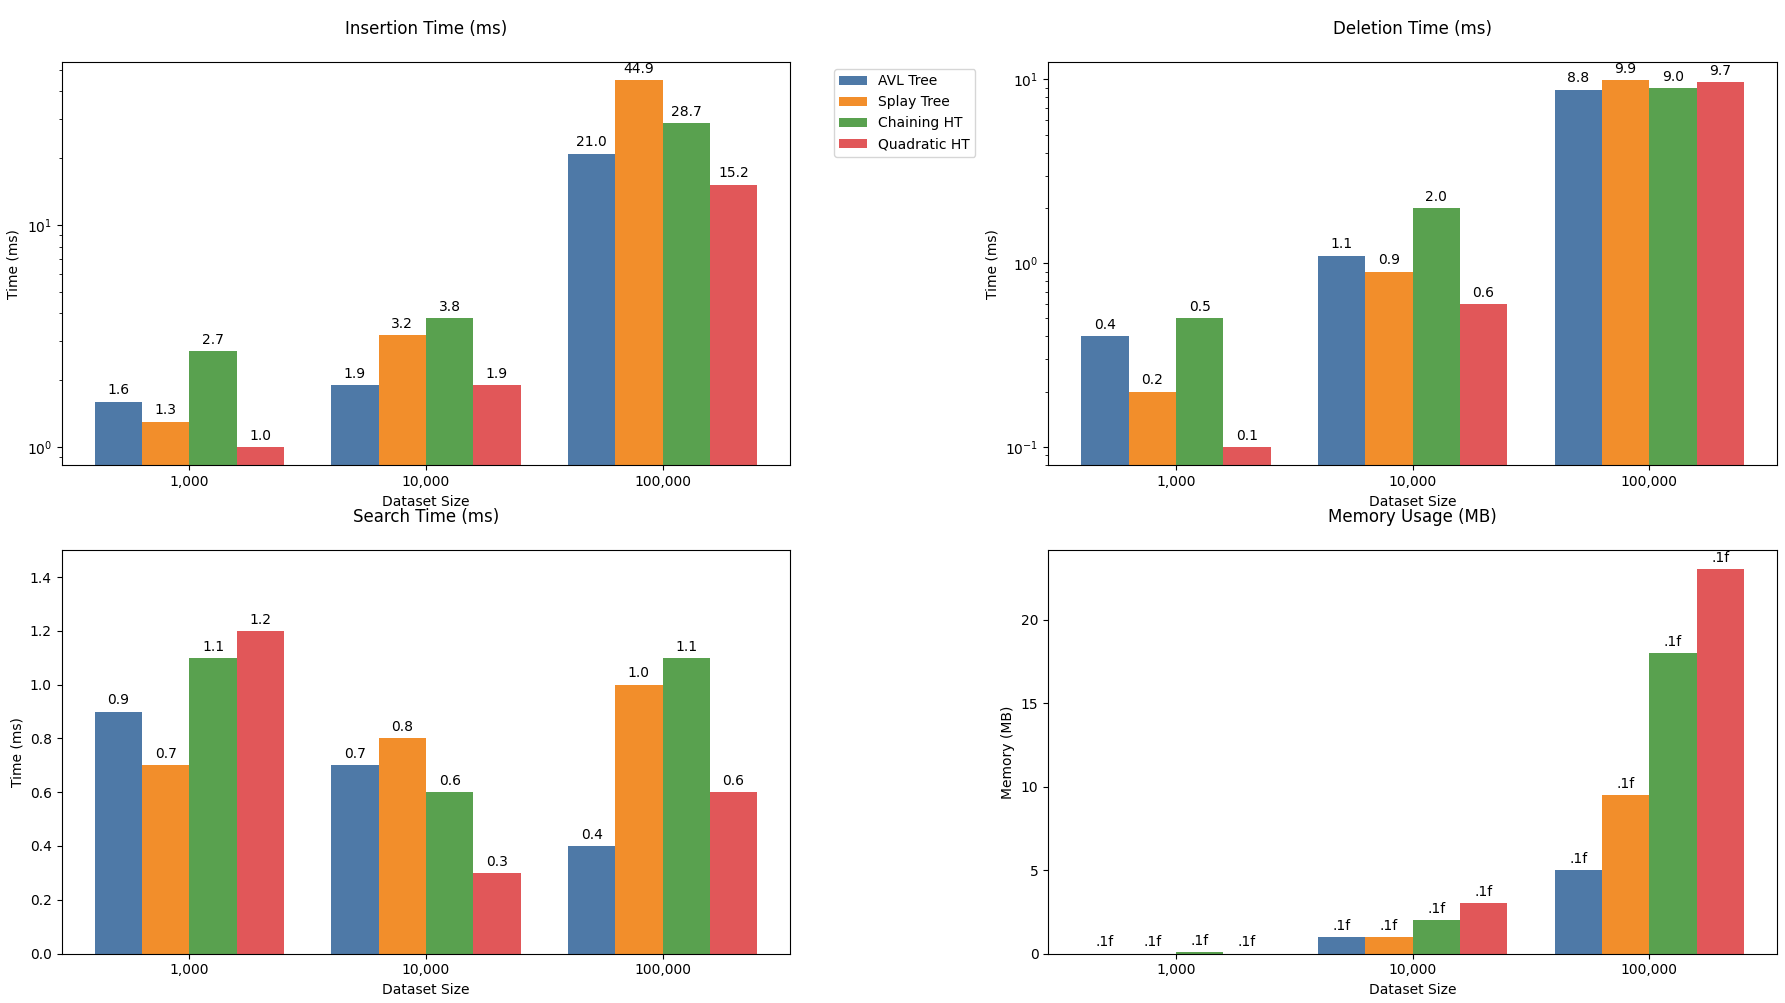
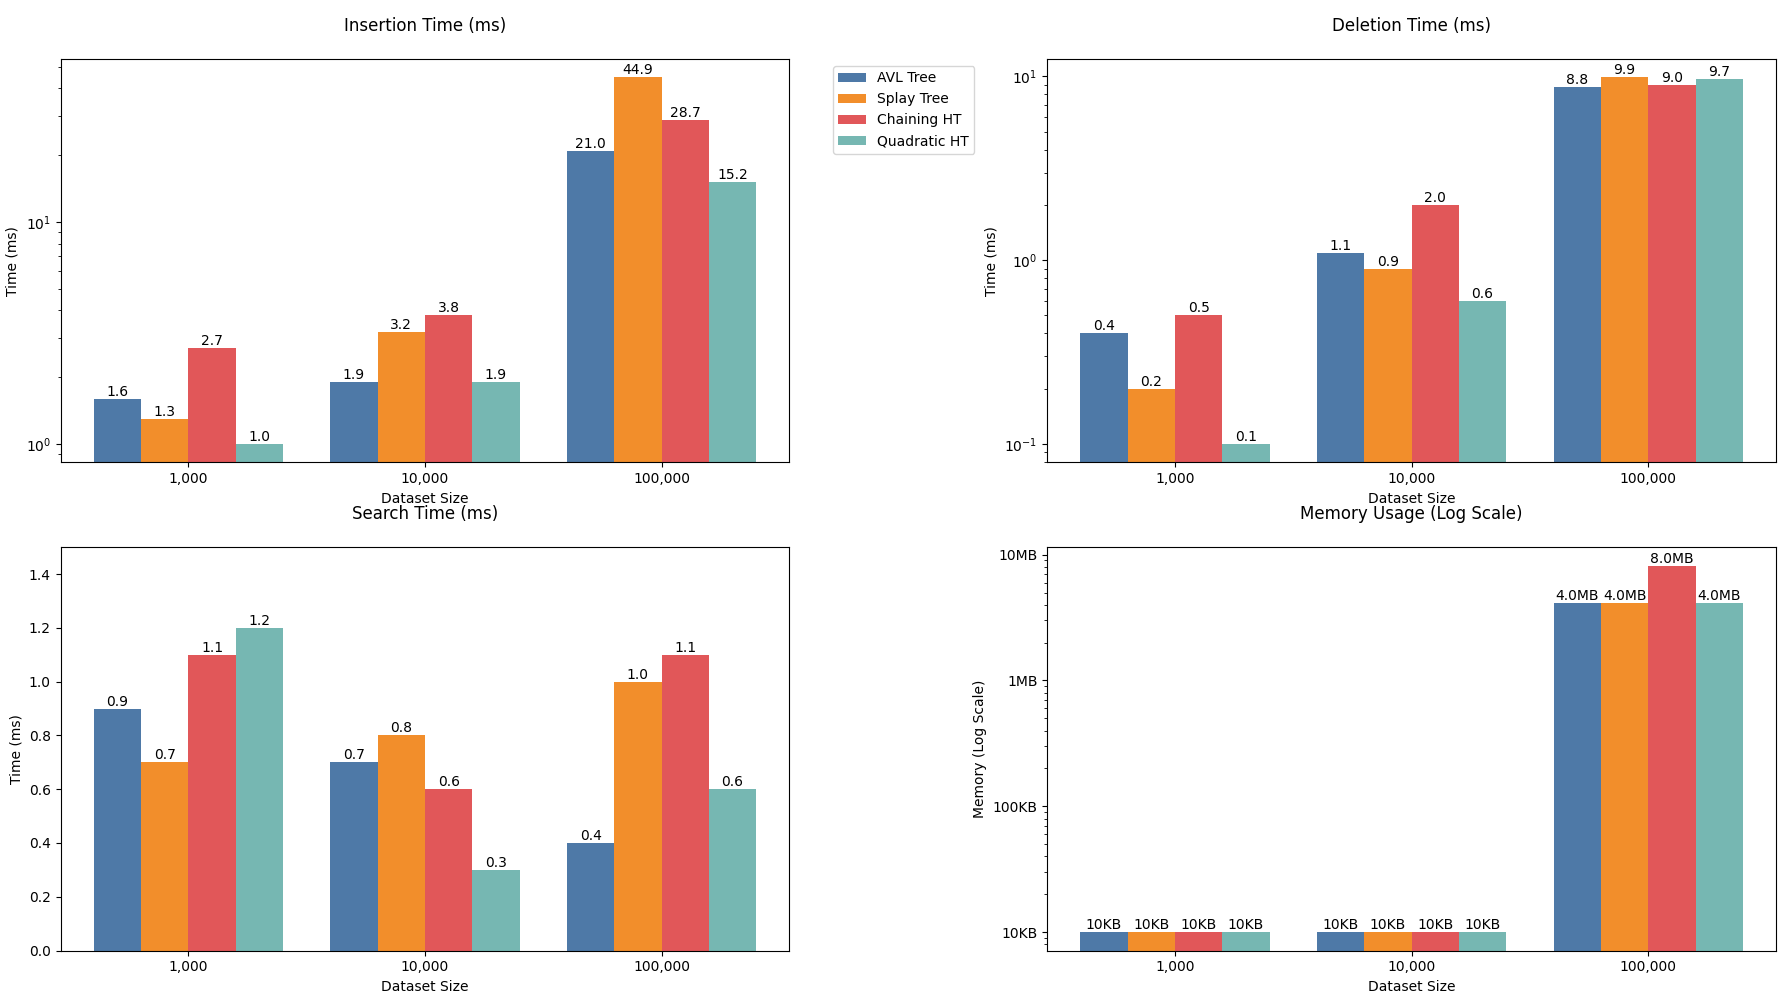
Ok this one is definitely the last, updated the performance testing so that it tests time and memory of every operation at the same time.

diff --git a/src/PerformanceTests.java b/src/PerformanceTests.java
@@ -141,28 +141,61 @@ public class PerformanceTests {
         return rt.totalMemory() - rt.freeMemory();
     }
 
-    private static long insertionTime(Structure<Integer> struct, int[] data){
+    private static class PerformanceResult {
+        long time;
+        long memory;
+        
+        PerformanceResult(long time, long memory) {
+            this.time = time;
+            this.memory = memory;
+        }
+    }
+
+    private static PerformanceResult insertionPerformance(Structure<Integer> struct, int[] data){
+        // Record memory before operation
+        long memoryBefore = getMemUsage();
+        
         long start = System.currentTimeMillis();
         for (Integer key : data){
             struct.insert(key);
         }
-        return System.currentTimeMillis() - start;
+        long timeTaken = System.currentTimeMillis() - start;
+        
+        // Record memory after operation
+        long memoryAfter = getMemUsage();
+        long memoryUsed = memoryAfter - memoryBefore;
+        
+        return new PerformanceResult(timeTaken, memoryUsed);
     }
 
-    private static long deletionTime(Structure<Integer> struct, int[] data){
+    private static PerformanceResult deletionPerformance(Structure<Integer> struct, int[] data){
+        long memoryBefore = getMemUsage();
+        
         long start = System.currentTimeMillis();
         for (Integer key : data){
             struct.delete(key);
         }
-        return System.currentTimeMillis() - start;
+        long timeTaken = System.currentTimeMillis() - start;
+                
+        long memoryAfter = getMemUsage();
+        long memoryUsed = memoryAfter - memoryBefore;
+        
+        return new PerformanceResult(timeTaken, memoryUsed);
     }
     
-    private static long searchTime(Structure<Integer> struct, int[] data){
+    private static PerformanceResult searchPerformance(Structure<Integer> struct, int[] data){
+        long memoryBefore = getMemUsage();
+        
         long start = System.currentTimeMillis();
         for (Integer key : data){
             struct.search(key);
         }
-        return System.currentTimeMillis() - start;
+        long timeTaken = System.currentTimeMillis() - start;
+        
+        long memoryAfter = getMemUsage();
+        long memoryUsed = memoryAfter - memoryBefore;
+        
+        return new PerformanceResult(timeTaken, memoryUsed);
     }
 
     public static void main(String[] args) {
@@ -180,13 +213,24 @@ public class PerformanceTests {
             dataStructures[2] = new ChainingHashTableStructure();
             dataStructures[3] = new QuadraticProbingHashTableStructure();
 
-            System.out.println("\t<Performance for " + curSize + ">\n<====================================>");
+            System.out.println("Performance for " + curSize + "\n<====================================>");
 
             for (Structure<Integer> struct : dataStructures){
                 System.out.println(struct.getName() + " information:");
-                System.out.println("Insertion Time: " + insertionTime(struct, insertData) + "ms");
-                System.out.println("Deletion Time: " + deletionTime(struct, deleteData) + "ms");               
-                System.out.println("Search Time: " + searchTime(struct, searchData) + "ms\nMemory Usage: " + getMemUsage() / 1000000 + "MB\n<====================================>");
+                
+                PerformanceResult insertResult = insertionPerformance(struct, insertData);
+                PerformanceResult deleteResult = deletionPerformance(struct, deleteData);
+                PerformanceResult searchResult = searchPerformance(struct, searchData);
+                
+                System.out.println("--------------------\nInsertion Time: " + insertResult.time + "ms");                                
+                System.out.println("Deletion Time: " + deleteResult.time + "ms");
+                System.out.println("Search Time: " + searchResult.time + "ms");
+                
+                System.out.println("--------------------\nInsertion Memory: " + insertResult.memory / 1_000_000 + "MB");
+                System.out.println("Deletion Memory: " + deleteResult.memory / 1_000_000 + "MB");
+                System.out.println("Search Memory: " + searchResult.memory / 1_000_000 + "MB");
+
+                System.out.println("<====================================>");
             }
             System.out.println();
         }        

diff --git a/README.md b/README.md
@@ -48,7 +48,7 @@ Section: `501`
 
 ## Performance Results
 
-The results shown are the averages of 10 runs
+**The results shown are the averages of 10 runs**
 
 ### Insertion (ms)
 
@@ -79,12 +79,13 @@ The results shown are the averages of 10 runs
 
 ### Memory Usage (MB)
 
-| Structure | 1_000 | 10_000 | 100_000 |
+*A quick note: given that I used MB and not KB, almost all the values, except Insertion for 100_000, were labelled as 0MB. It's not that there wasnt any memory being used, but it was not enough to be labelled as 1MB. Additionally, Java's memory management is already very efficient and Insertion is the only place that really takes a load on memory since its creating new objects while deletion and search are already heavily optimized within my code.*
+| Structure (I \|  D \| S) | 1_000 | 10_000 | 100_000 |
 |-----------|-------|--------|----------|
-|AVL Tree | 0 | 1 | 5|
-|Splay Tree | 0 | 1| 9.5|
-|Chaining Hash Table | .1 | 2 | 18|
-|Quadratic Probing Hash Table | 0 | 3 | 23|
+|AVL Tree | 0 \| 0 \| 0 | 0 \| 0 \| 0 | 4 \| 0 \| 0|
+|Splay Tree | 0 \| 0 \| 0 | 0 \| 0 \| 0| 4 \| 0 \| 0|
+|Chaining Hash Table | 0 \| 0 \| 0 | 0 \| 0 \| 0 | 8 \| 0 \| 0|
+|Quadratic Probing Hash Table | 0 \| 0 \| 0 | 0 \| 0 \| 0 | 4 \| 0 \| 0|
 
 ### Insertion Performance
 - **Quadratic Probing HT** emerges as the clear winner for insertion operations, being:
@@ -108,13 +109,9 @@ The results shown are the averages of 10 runs
 - **AVL Tree** shows reverse scaling - faster at larger datasets (0.4ms at 100k)
 
 ### Memory Efficiency
-- **AVL Tree** remains the most memory-efficient:
-  - 5× more efficient than Quadratic Probing at 100k (5MB vs 23MB)
-  - Half the memory of Splay Tree at largest scale (5MB vs 9.5MB)
-- **Hash Tables** show linear memory growth:
-  - Quadratic Probing uses 13% more memory than Chaining at 100k
-  - Both exceed tree structures by 2-4× at scale
+- **Nearly all operations** use 0MB of memory to complete their tasks
+- Out of those that do use memory, AVL, Splay, and QP all use around 4MB for insertion while Chaining uses 8MB *likely due to it using linked lists for storage*
 
 ## Graphs
 
-![alt text](dsa2-graphs.png)
+![alt text](dsa2-graphs.PNG)
